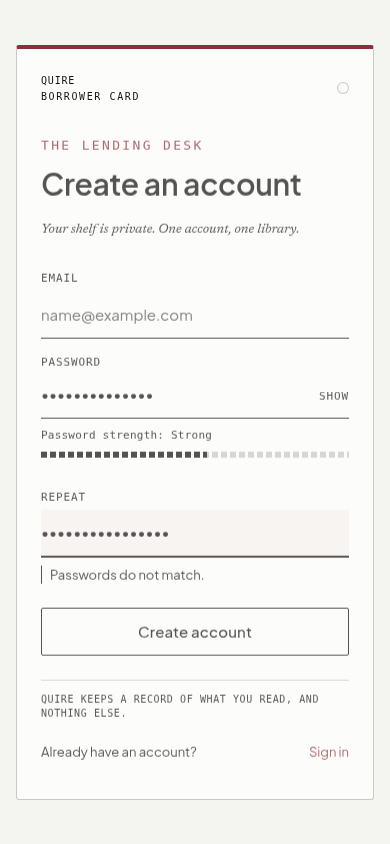
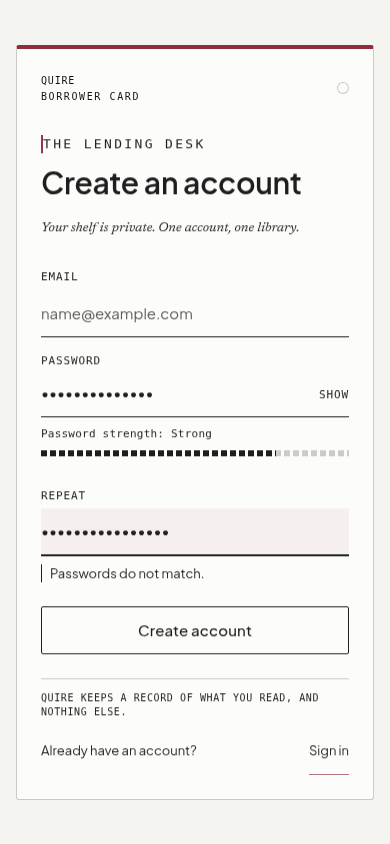
fix(auth): keep the accent in the rule so every theme clears 7:1

diff --git a/src/styles/auth.css b/src/styles/auth.css
@@ -407,7 +407,9 @@
   font: 10px / 12px var(--font-mono);
   letter-spacing: 0.18em;
   text-transform: uppercase;
-  color: var(--accent);
+  color: var(--ink);
+  border-left: 2px solid var(--accent);
+  padding-left: var(--space-6);
 }
 
 .borrower-card .auth-head h1 {
@@ -476,11 +478,13 @@
   background: color-mix(in srgb, var(--accent) 6%, transparent);
 }
 
-/* links are ink, not browser blue-underlined */
+/* the accent lives in the rule under the word, not in the word: 7:1 must hold in every theme */
 .borrower-card .auth-forgot,
 .borrower-card .auth-switch-action {
   text-decoration: none;
-  color: var(--accent);
+  color: var(--ink);
+  border-bottom: var(--rule-width) solid var(--accent);
+  padding-bottom: 1px;
 }
 
 .borrower-card .auth-forgot:hover,
